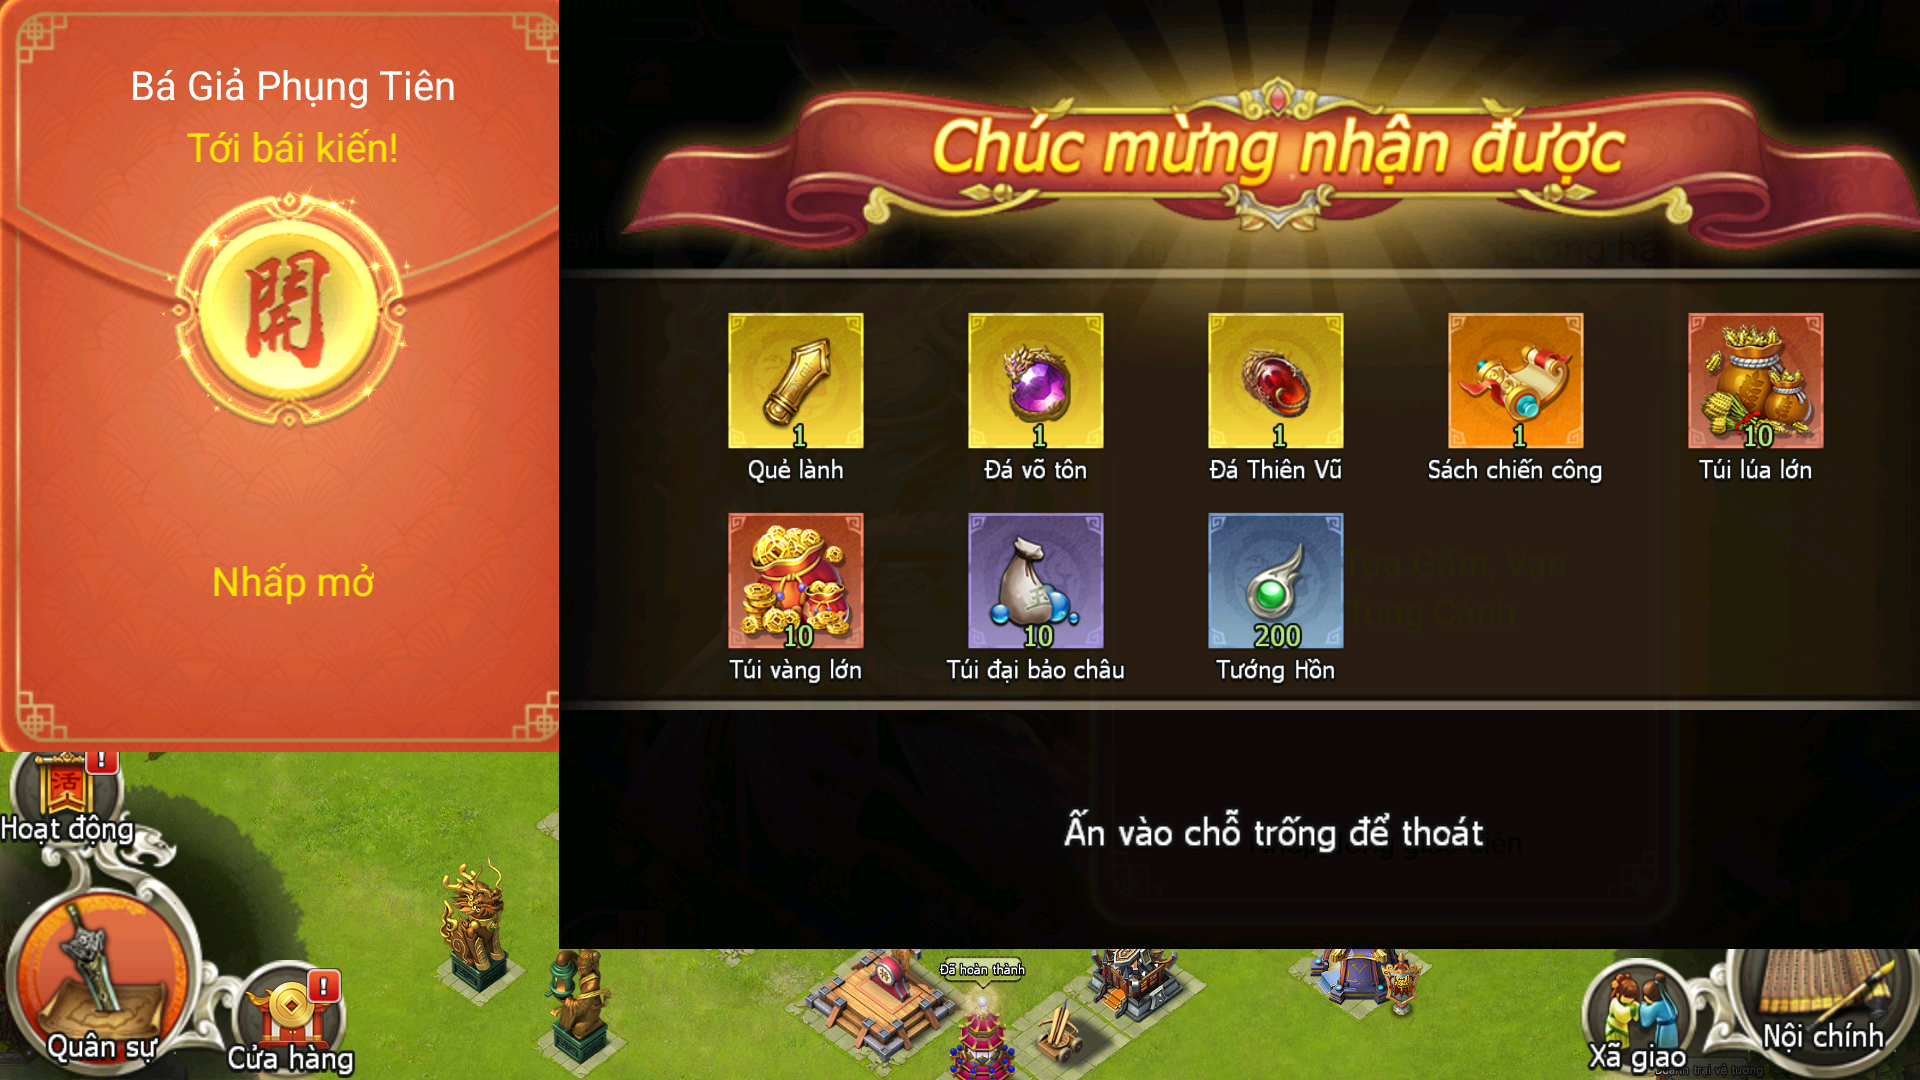
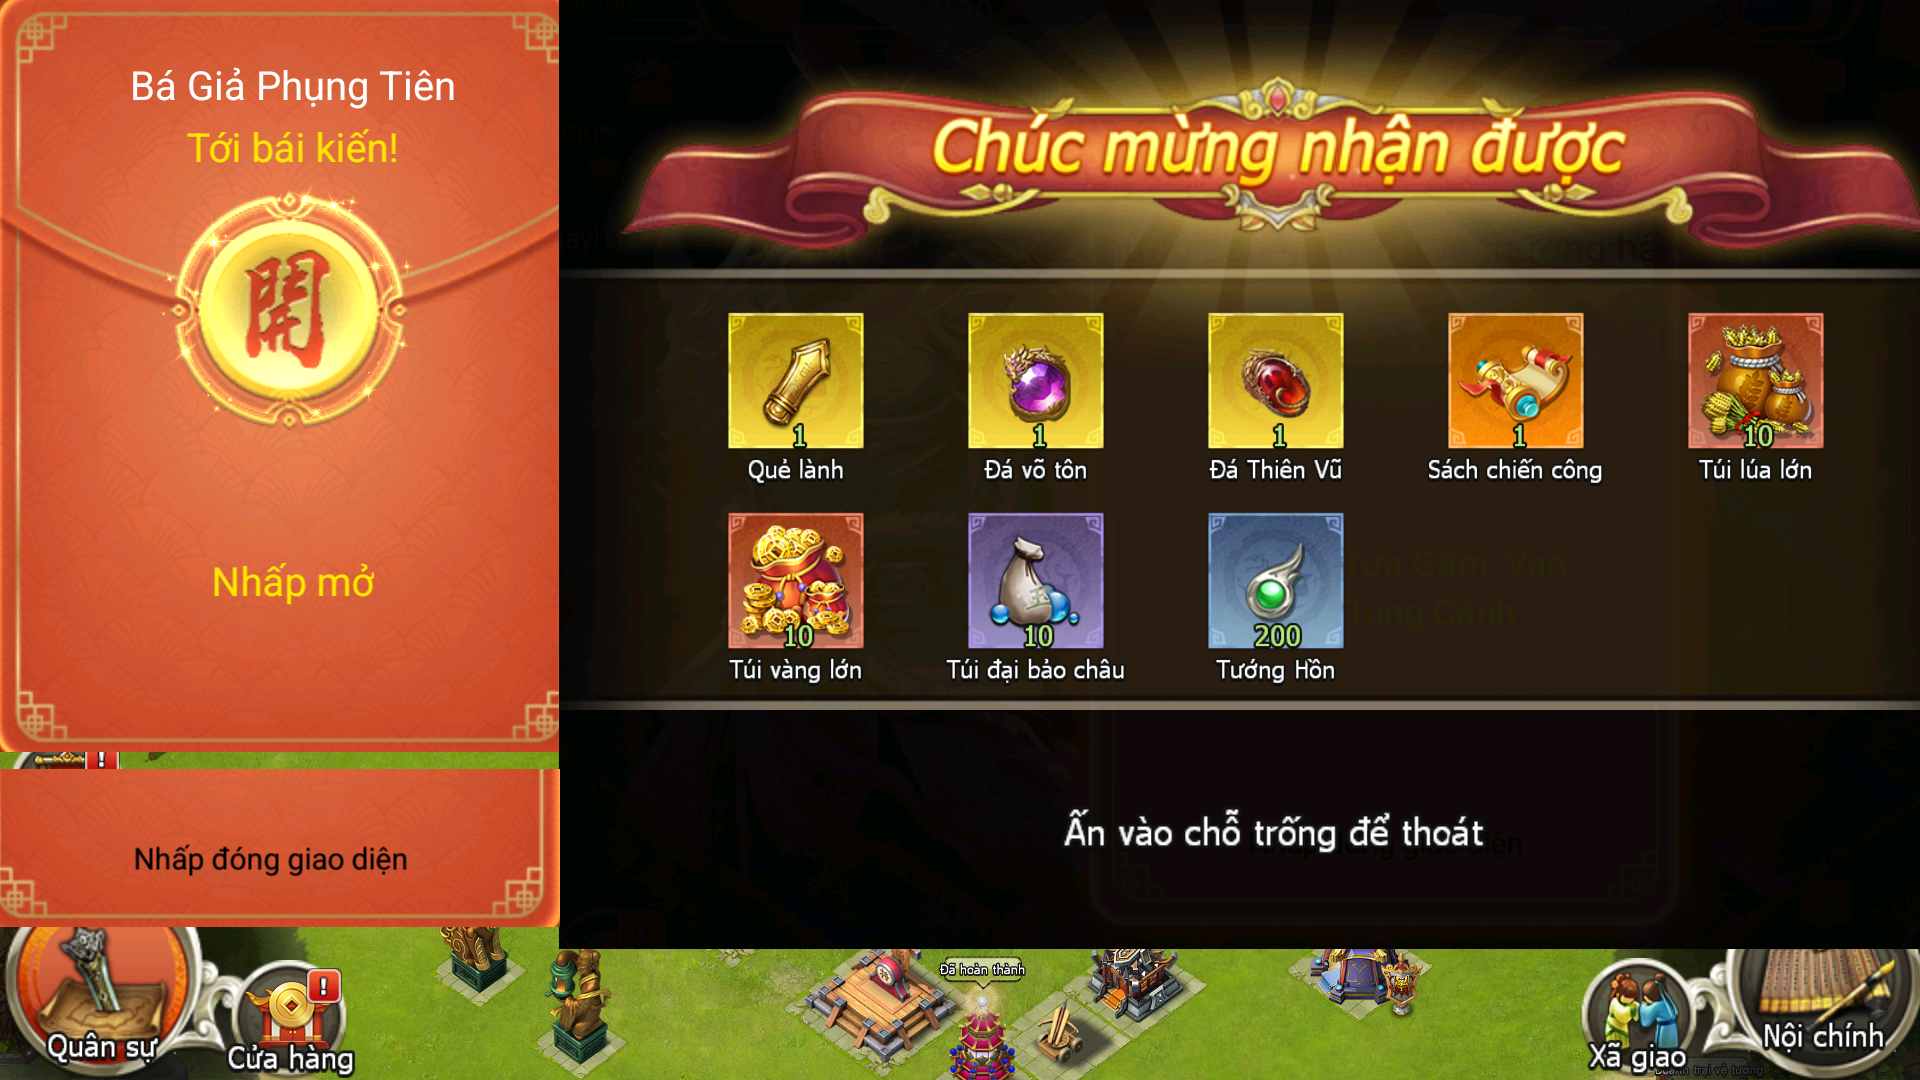
atr

Changed region(s): [[0.0, 0.7028, 0.3125, 0.8556]]

diff --git a/dctq_auto/tasks/common/close_knowned_dialog.py b/dctq_auto/tasks/common/close_knowned_dialog.py
@@ -11,10 +11,15 @@ from dctq_auto.config.constants import (
     _TEMPLATE_THONG_BAO_DICH_QUAN_TAP_KICH,
     _TEMPLATE_MAIN_SU_KIEN_TANG_QUA_HANG_NGAY,
     _TEMPLATE_MAIN_SU_KIEN_AN_CHO_TRONG_DE_THOAT,
+    _TEMPLATE_MAIN_SU_KIEN_THOAT,
     _TEMPLATE_QUAN_SU_GIAO_TRANH_HOI_THANH,
     _TEMPLATE_QUAN_SU_TRANH_BA_HOI_THANH,
 )
-from dctq_auto.tasks.common.battle.battle_utils import click_match
+from dctq_auto.tasks.common.battle.battle_utils import (
+    click_match as _click_match,
+    match as _match,
+    screen_bgr as _screen_bgr,
+)
 from dctq_auto.vision.template_matching import match_template
 from dctq_auto.vision.template_report import report_template_match
 from dctq_auto.vision.template_store import get_templates
@@ -31,6 +36,7 @@ def close_knowned_dialog(
         _TEMPLATE_THONG_BAO_DICH_QUAN_TAP_KICH,
         _TEMPLATE_MAIN_SU_KIEN_TANG_QUA_HANG_NGAY,
         _TEMPLATE_MAIN_SU_KIEN_AN_CHO_TRONG_DE_THOAT,
+        _TEMPLATE_MAIN_SU_KIEN_THOAT,
         _TEMPLATE_QUAN_SU_GIAO_TRANH_HOI_THANH,
         _TEMPLATE_QUAN_SU_TRANH_BA_HOI_THANH,
         _TEMPLATE_MAIN_HOAT_DONG,
@@ -80,7 +86,7 @@ def close_knowned_dialog(
                 return True
 
             if template_name == _TEMPLATE_ACCOUNT_CLOSE_CAP_NHAT_THONG_TIN:
-                x, y = click_match(device, match)
+                x, y = _click_match(device, match)
                 dialog_name = "Đóng cập nhật thông tin"
             elif template_name == _TEMPLATE_ACCOUNT_CAP_NHAT_THONG_TIN:
                 x, y = positions.get("main.cap_nhat_thong_tin", "dong_man_hinh")
@@ -90,12 +96,17 @@ def close_knowned_dialog(
                 x, y = positions.get("main.dich_quan_tap_kich", "dong_man_hinh")
                 device.shell(f"input tap {x} {y}")
                 dialog_name = "Địch Quân Tập Kích"
-            elif template_name in ( _TEMPLATE_MAIN_SU_KIEN_TANG_QUA_HANG_NGAY, _TEMPLATE_MAIN_SU_KIEN_AN_CHO_TRONG_DE_THOAT, ):
-                x, y = click_match(device, match)
-                dialog_name = "Tặng quà sự kiện"
+            elif template_name in ( _TEMPLATE_MAIN_SU_KIEN_TANG_QUA_HANG_NGAY, _TEMPLATE_MAIN_SU_KIEN_AN_CHO_TRONG_DE_THOAT, _TEMPLATE_MAIN_SU_KIEN_THOAT,):
+                x, y = _click_match(device, match)
+                dialog_name = "Tặng quà sự kiện1"
+                log(
+                    f"[{account.display_name}] Đã phát hiện {dialog_name}; "
+                    f"click đóng màn hình tại ({x}, {y})."
+                )
                 time.sleep(4)
+                return close_knowned_dialog(self, account, device, ocr_client, log, screen_bgr=_screen_bgr(device))
             else:
-                x, y = click_match(device, match)
+                x, y = _click_match(device, match)
                 dialog_name = template_name
                 time.sleep(1.5)
 

diff --git a/dctq_auto/config/constants.py b/dctq_auto/config/constants.py
@@ -13,6 +13,7 @@ _TEMPLATE_ACCOUNT_DANG_NHAP = "accounts3/dang_nhap"
 # Template màn hình đã biết
 _TEMPLATE_MAIN_SU_KIEN_TANG_QUA_HANG_NGAY = "main.su_kien/tang_qua_hang_ngay"
 _TEMPLATE_MAIN_SU_KIEN_AN_CHO_TRONG_DE_THOAT = "main.su_kien/an_cho_trong_de_thoat"
+_TEMPLATE_MAIN_SU_KIEN_THOAT = "main.su_kien/dong_tang_qua_hang_ngay"
 
 # Step được chọn từ cấu hình tác vụ.
 _STEP_NHAN_THUONG_TAM_QUOC_LENH = "hoat_dong_nhan_thuong_tam_quoc_lenh"
